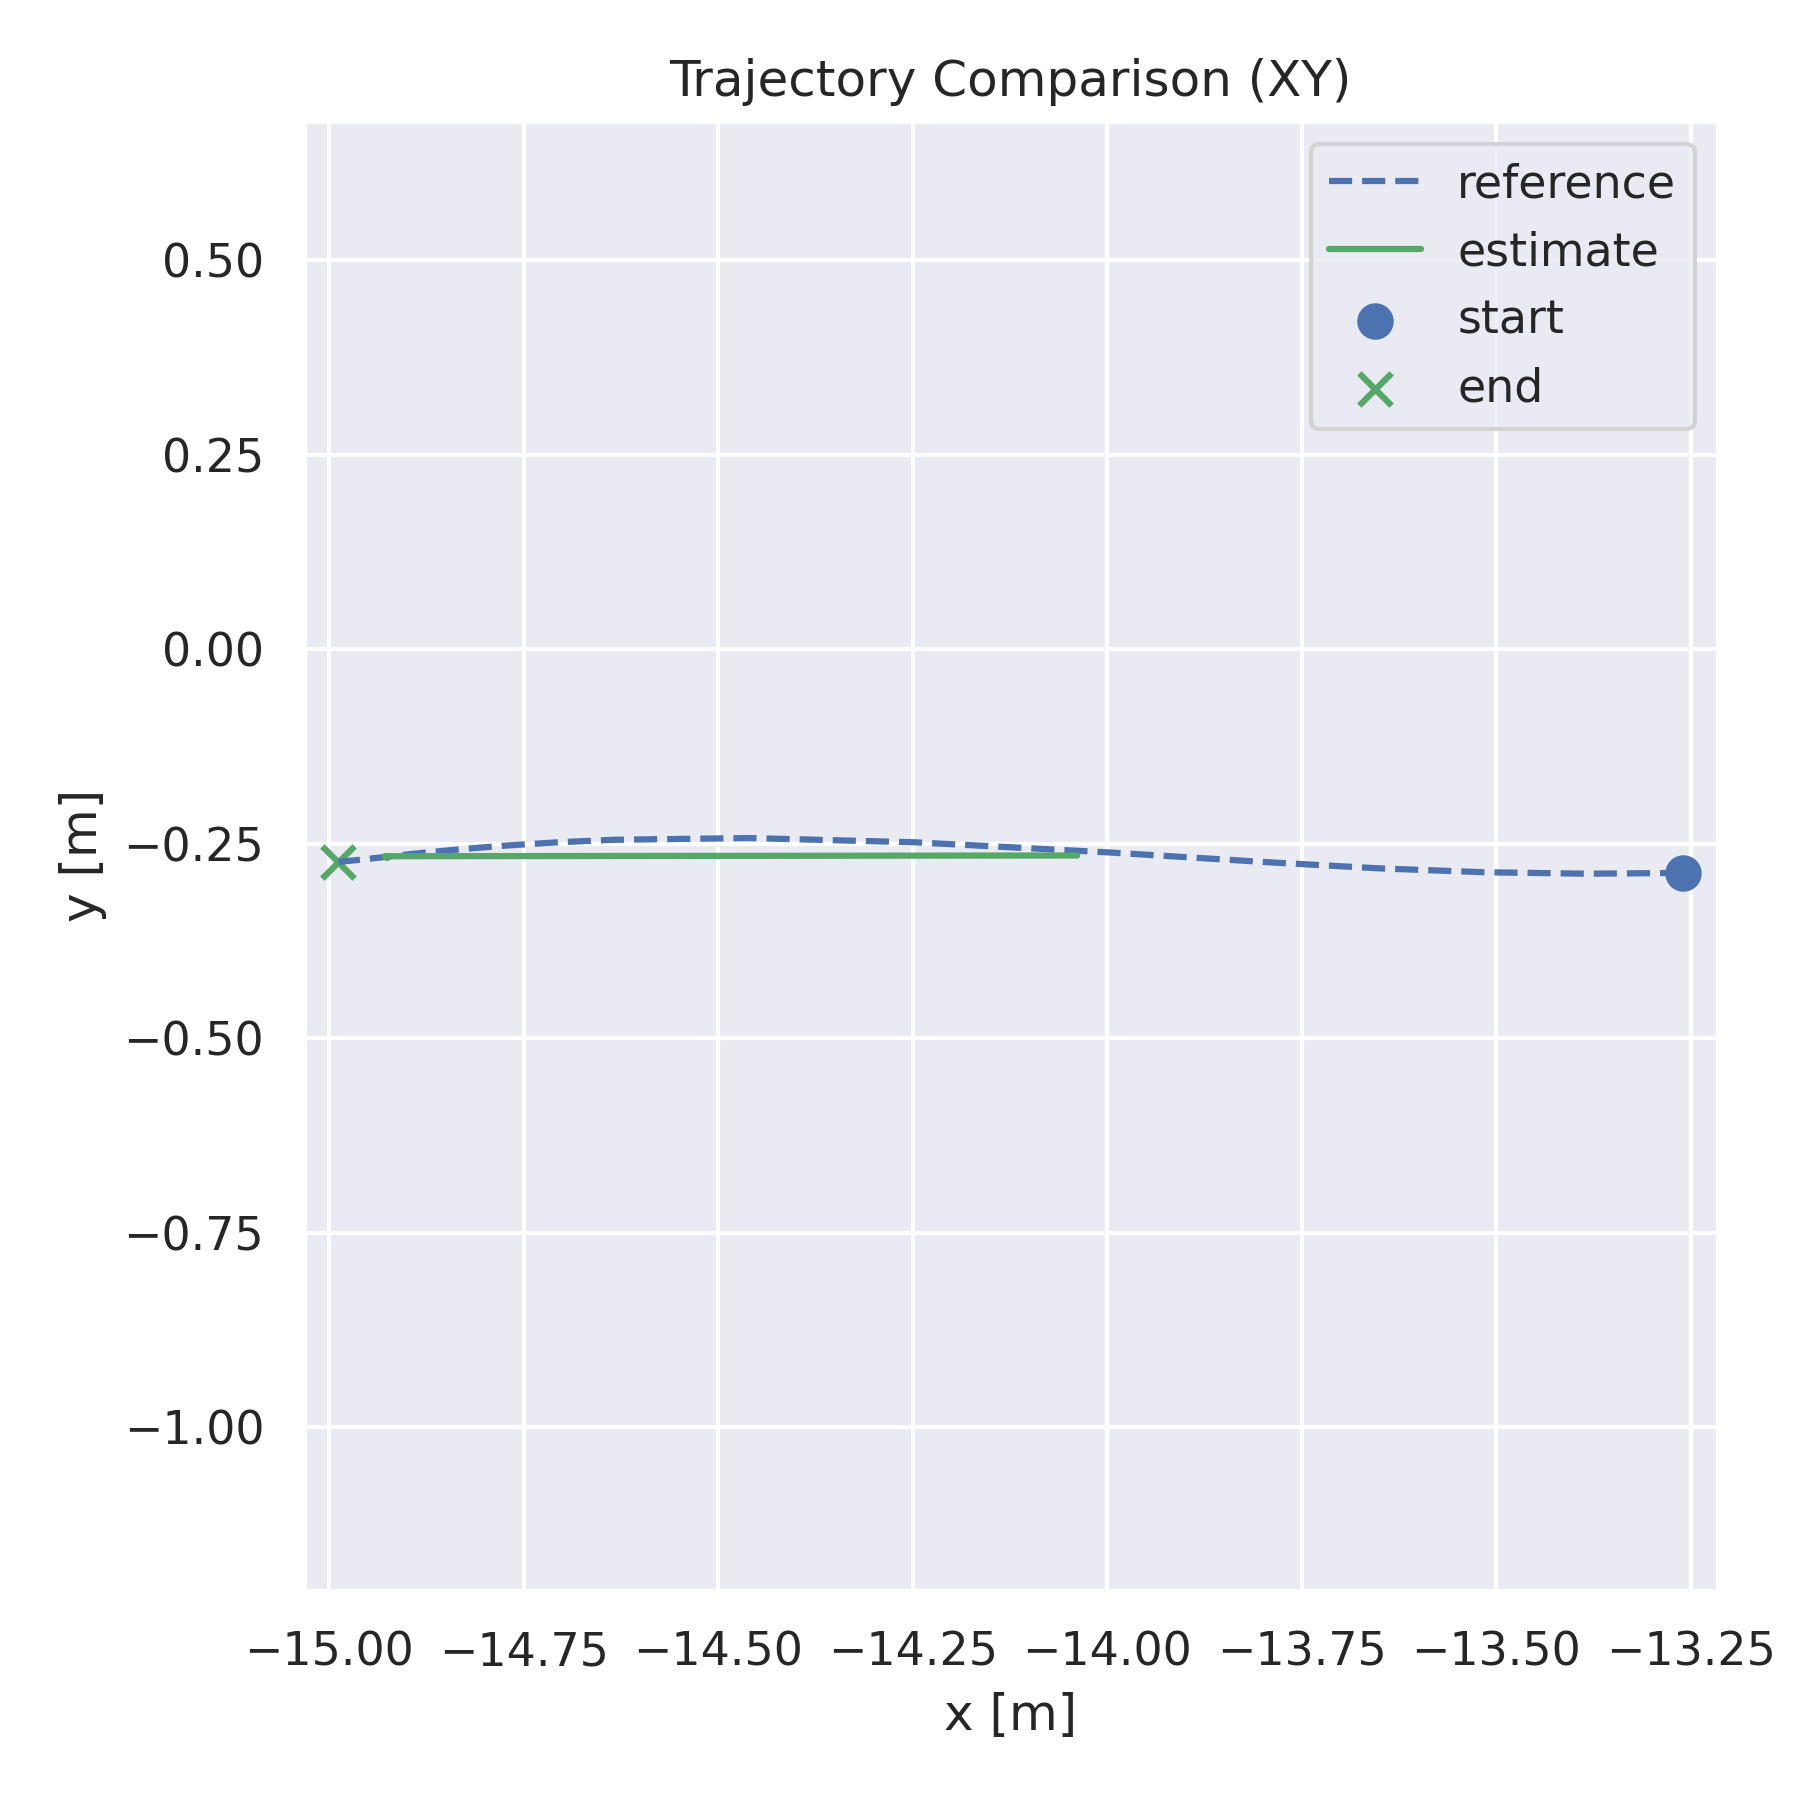
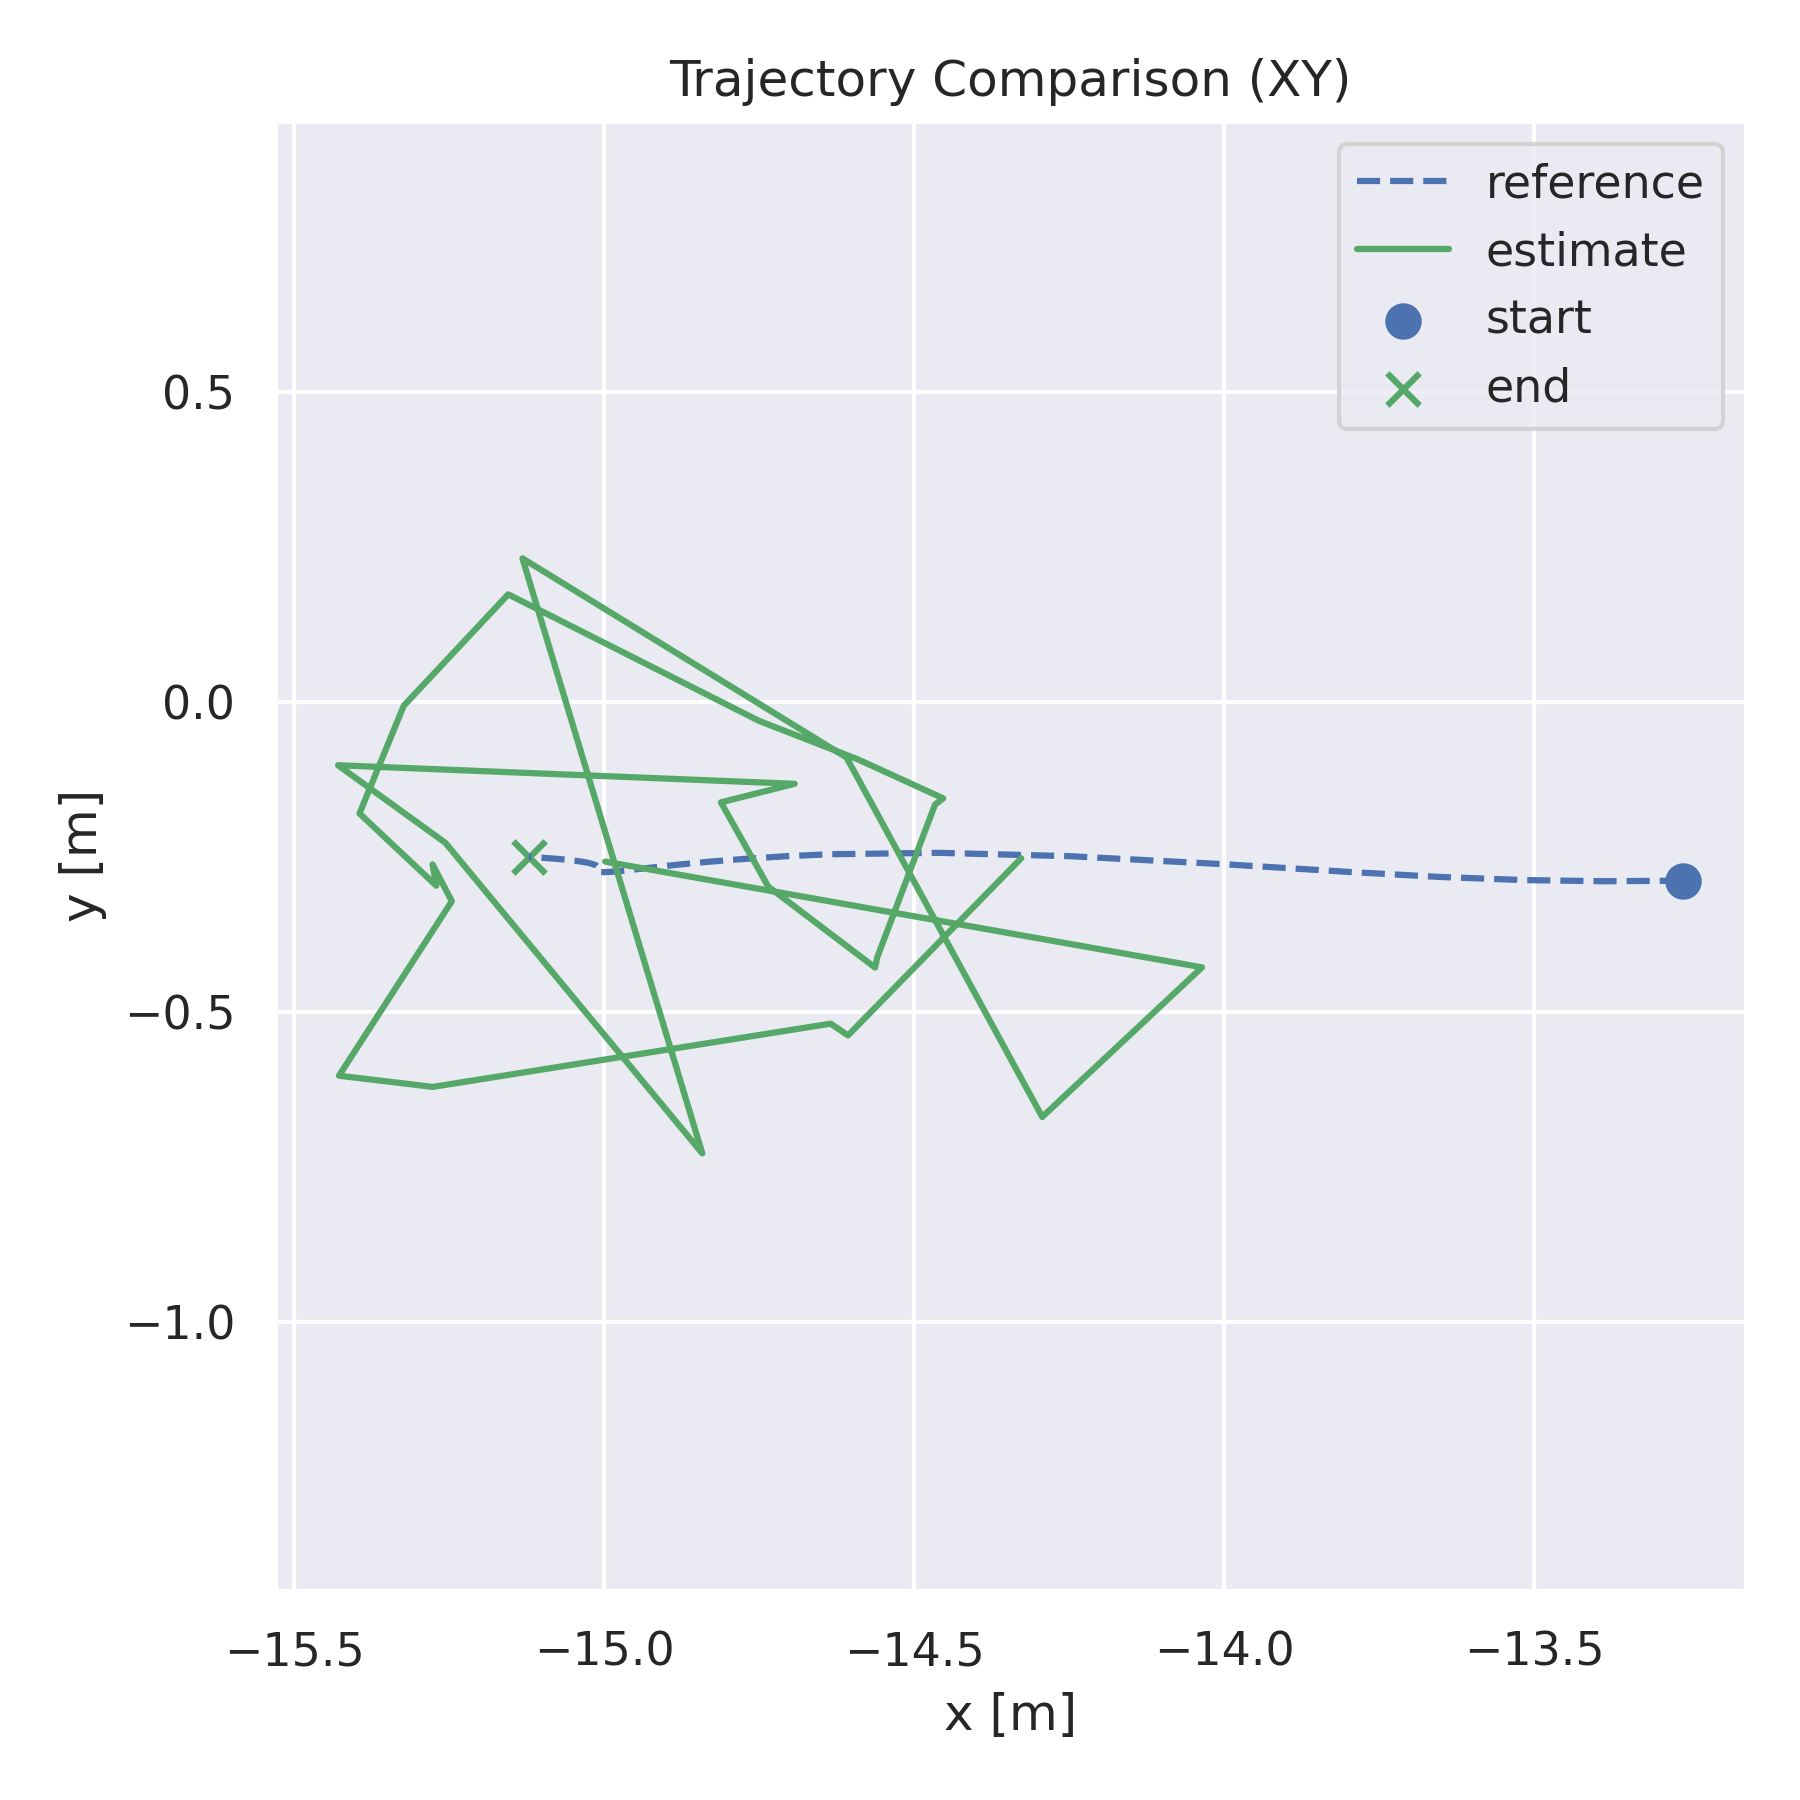
New VG BA

diff --git a/new_xrvio.py b/new_xrvio.py
@@ -228,11 +228,21 @@ class XRVIO:
                 't': t_opt,
                 'v': prev['v'] + self.preint.delta_v
             }
+
             self.states.append(new_state)
             self.tracker.init_frame(img)
 
+
+            # 3) VG-BA
+            print("VG-BA START")
+            self.vg_ba_g2o()
+            print("VG-BA END")
+
             # 4) VA-Align and VI-BA
             self.va_align()
+
+
+            # 5) VI-BA
             print("BA START")
             self.vi_ba_g2o()
             print("BA END")
@@ -328,8 +338,24 @@ class XRVIO:
 
         # unpack solution
         v_list = [ sol[3*k:3*k+3] for k in range(N) ]  # velocities
-        s_est  = sol[3*N]                              # scale
+        raw_s  = sol[3*N]                              # scale
         g_est  = sol[3*N+1:3*N+4]                      # gravity
+
+        # ——— CLAMP THE SCALE ———
+        # absolute bounds
+        min_s, max_s = 0.0001, 100.0  
+        s_clamped = float(np.clip(raw_s, min_s, max_s))
+
+        # optional relative‐to‐previous bound
+        if self.logs['imu']:
+            prev_s = self.logs['imu'][-1].get('scale', 1.0)
+            rel_min = prev_s * 0.5
+            rel_max = prev_s * 2.0
+            s_clamped = float(np.clip(s_clamped, rel_min, rel_max))
+
+        # now use s_clamped instead of raw_s
+        s_est = s_clamped
+        print(f"VA Align raw_s={raw_s:.3f} → clamped to {s_est:.3f}")
 
         # apply scale to all visual positions
         for k in range(N+1):
@@ -348,6 +374,88 @@ class XRVIO:
             'gravity': g_est.copy()
         })
         print(f"VA Align → scale={s_est:.4f}, gravity={g_est}")
+    
+    def vg_ba_g2o(self):
+        """
+        Visual-Gyro Bundle Adjustment:
+        Jointly refine poses and landmarks using visual reprojection and
+        gyroscope rotation constraints (bias fixed to zero).
+        """
+        # 1) set up optimizer
+        opt = g2o.SparseOptimizer()
+        solver = g2o.LinearSolverDenseSE3()
+        block = g2o.BlockSolverSE3(solver)
+        algo = g2o.OptimizationAlgorithmLevenberg(block)
+        opt.set_algorithm(algo)
+        opt.set_verbose(False)
+
+        # camera param
+        f = float(self.K[0,0]); pp=np.array([[self.K[0,2]],[self.K[1,2]]])
+        cam = g2o.CameraParameters(f, pp, 0.0)
+        cam.set_id(0)
+        opt.add_parameter(cam)
+
+        # sliding window
+        start = max(0, len(self.states)-self.window)
+        idxs = list(range(start, len(self.states)))
+
+        # add pose vertices
+        for i in idxs:
+            R_i = self.states[i]['R']; t_i = self.states[i]['t'].reshape(3,1)
+            se3 = g2o.SE3Quat(R_i, t_i)
+            v = g2o.VertexSE3Expmap(); v.set_id(i*2)
+            v.set_estimate(se3); v.set_fixed(i==start)
+            opt.add_vertex(v)
+
+        # add landmark vertices
+        for lm_id, P3 in self.landmarks.items():
+            vp = g2o.VertexPointXYZ(); vp.set_id(lm_id*2+1)
+            vp.set_estimate(np.array(P3)); vp.set_marginalized(True)
+            opt.add_vertex(vp)
+
+        # add reprojection edges
+        for i in idxs:
+            for lm_id, uv in zip(self.landmarks.keys(), self.tracker.prev_pts):
+                eid=lm_id*2+1 
+                pid=i*2
+                e = g2o.EdgeProjectXYZ2UV()
+                e.set_vertex(0,opt.vertex(eid)) 
+                e.set_vertex(1,opt.vertex(pid))
+                e.set_measurement(uv); e.set_information(np.eye(2))
+                e.set_parameter_id(0,0); opt.add_edge(e)
+
+        # add gyro rotation edges between consecutive poses
+        for j in range(len(idxs)-1):
+            i0, i1 = idxs[j], idxs[j+1]
+            # get preintegrated rotation
+            imu_t, acc, gyro = self.imu_slices[i1]
+            pre = IMUPreintegrator(self.dt); pre.integrate_batch(acc, gyro)
+            R_meas = pre.delta_R
+            # create binary SE3 edge with rotation measurement
+            edge = g2o.EdgeSE3()
+            edge.set_vertex(0, opt.vertex(i0*2))
+            edge.set_vertex(1, opt.vertex(i1*2))
+            # convert to Isometry3d (rotation + zero translation)
+            meas = g2o.Isometry3d(R_meas, np.zeros(3))
+            edge.set_measurement(meas)
+            # information matrix for 6D (rot+trans); we only trust rotation here
+            info = np.eye(6)
+            # optionally downweight translation terms
+            info[3:,3:] *= 0.0
+            edge.set_information(info)
+            opt.add_edge(edge)
+
+        # optimize
+        opt.initialize_optimization(); opt.optimize(5)
+
+        # unpack refined poses
+        for i in idxs:
+            est=opt.vertex(i*2).estimate()
+            R_opt, t_opt = est.rotation(), est.translation().flatten()
+            self.states[i]['R']=R_opt; self.states[i]['t']=t_opt
+
+        # no change to landmarks (optional) or bias
+        print("VG-BA complete")
 
     def vi_ba_g2o(self):
         """

diff --git a/evaluate.py b/evaluate.py
@@ -346,7 +346,7 @@ async def async_run(cfg_VO, network, eval_cfg, data_queue: Queue, enable_timing 
             if mask:
                 img_timestamps.append(f_i)
             
-            if t == 40:
+            if t == 60:
                 print("TESTING EARLY")
                 break
     else:
